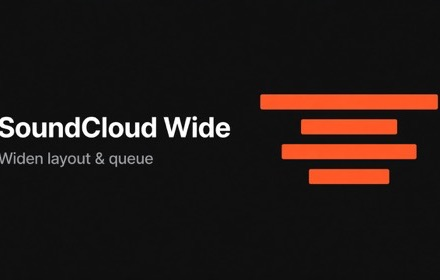
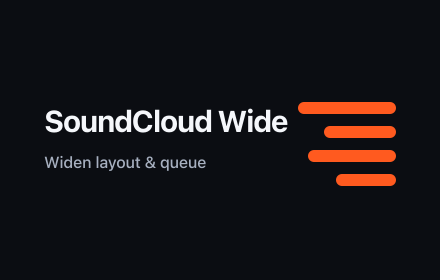
Add store screenshots and refine promo assets for Chrome Web Store.

Changed region(s): [[0.0, 0.3143, 1.0, 0.6857], [0.0, 0.5429, 0.4727, 0.6]]

diff --git a/popup/popup.html b/popup/popup.html
@@ -9,7 +9,7 @@
   <body>
     <main class="control-center">
       <header class="control-center__header">
-        <h1 class="control-center__title">Control center</h1>
+        <h1 class="control-center__title">SoundCloud Wide</h1>
       </header>
 
       <section class="control-center__group" aria-labelledby="features-heading">

diff --git a/popup/popup.css b/popup/popup.css
@@ -1,6 +1,6 @@
 :root {
-  --scx-background: #0b0d12;
-  --scx-surface: #141821;
+  --scx-background: #141414;
+  --scx-surface: #2c2d30;
   --scx-surface-raised: #1c2230;
   --scx-border: #30394a;
   --scx-text: #f5f7fb;

diff --git a/store/LISTING.md b/store/LISTING.md
@@ -66,20 +66,18 @@ Use these answers in the dashboard Privacy tab.
 | ----- | ---- | ---- | -------- |
 | Extension icons | `icons/icon-{16,32,48,128}.png` | 16 / 32 / 48 / 128 | Yes (in zip) |
 | Small promo tile | `store/promo-small.png` | 440×280 | Yes (upload in dashboard) |
-| Screenshots | see below | 1280×800 preferred | Yes (≥1) |
+| Screenshots | `store/screenshots/*.png` | 1280×800 | Yes (≥1) |
 | Marquee promo | — | 1400×560 | Optional |
 
-### Screenshot capture checklist
+### Screenshots (upload in this order)
 
-Chrome Web Store needs at least one full-bleed screenshot (1280×800 or 640×400)
-showing the real product. Capture these yourself while logged into SoundCloud:
+| # | File | Shows |
+| - | ---- | ----- |
+| 1 | [`store/screenshots/01-after-layout.png`](screenshots/01-after-layout.png) | **After** — enlarged layout (wide playlist + sidebar) |
+| 2 | [`store/screenshots/02-after-queue.png`](screenshots/02-after-queue.png) | **After** — enlarged queue (“Next up” panel) |
+| 3 | [`store/screenshots/03-before.png`](screenshots/03-before.png) | **Before** — default SoundCloud width (comparison) |
 
-1. Load the unpacked extension (or the store build) and open `https://soundcloud.com/`.
-2. Enable **Enlarged layout** and **Enlarged queue** in the popup.
-3. Capture the main feed or a track page at a wide viewport (1280×800).
-4. Optionally capture a second shot with the queue panel open.
-5. Optionally capture the control-center popup (can be composited or shown on top of SoundCloud).
-6. Save PNGs into `store/screenshots/` (gitignored) and upload them in the dashboard.
+These are full-bleed 1280×800 PNGs ready for the dashboard. They are **not** included in the store zip (upload separately).
 
 Do not submit screenshots that imply a full theme/recolor if the shipped CSS is layout-only.
 
@@ -90,7 +88,7 @@ Do not submit screenshots that imply a full theme/recolor if the shipped CSS is 
 - [ ] Enlarged layout and enlarged queue work on main SoundCloud UI
 - [ ] Player iframe (`/n/*`) still gets wide layout after in-app navigation
 - [ ] `PRIVACY.md` is public on GitHub `main`
-- [ ] At least one 1280×800 screenshot uploaded
+- [ ] At least one 1280×800 screenshot uploaded (`store/screenshots/`)
 - [ ] `store/promo-small.png` uploaded as small promo tile
 - [ ] Permission justifications pasted and match the zip
 - [ ] Listing name/description say **SoundCloud Wide** (layout), not “theme”

diff --git a/README.md b/README.md
@@ -47,7 +47,7 @@ injected) are for maintenance only and are excluded from the store package.
 ## Publishing
 
 See [`store/LISTING.md`](store/LISTING.md) for Chrome Web Store listing copy,
-privacy answers, and packaging steps. Build a store zip with:
+privacy answers, screenshots, and packaging steps. Build a store zip with:
 
 ```bash
 ./scripts/pack.sh
